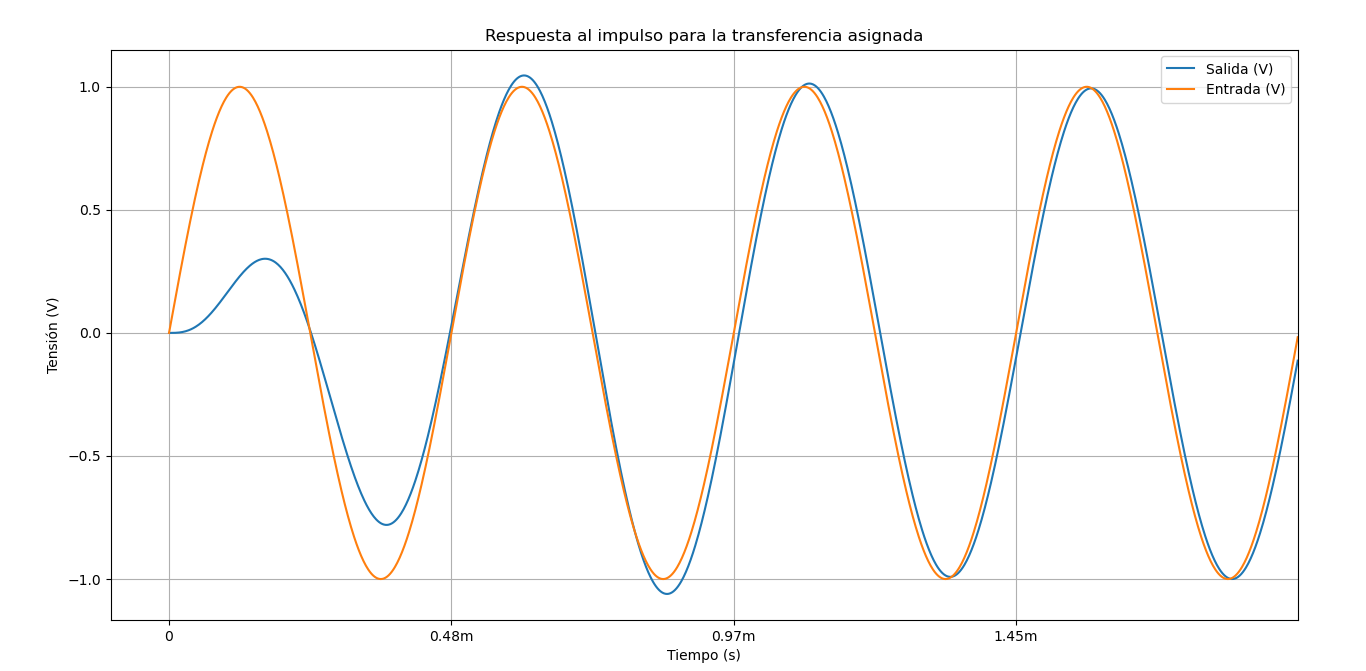
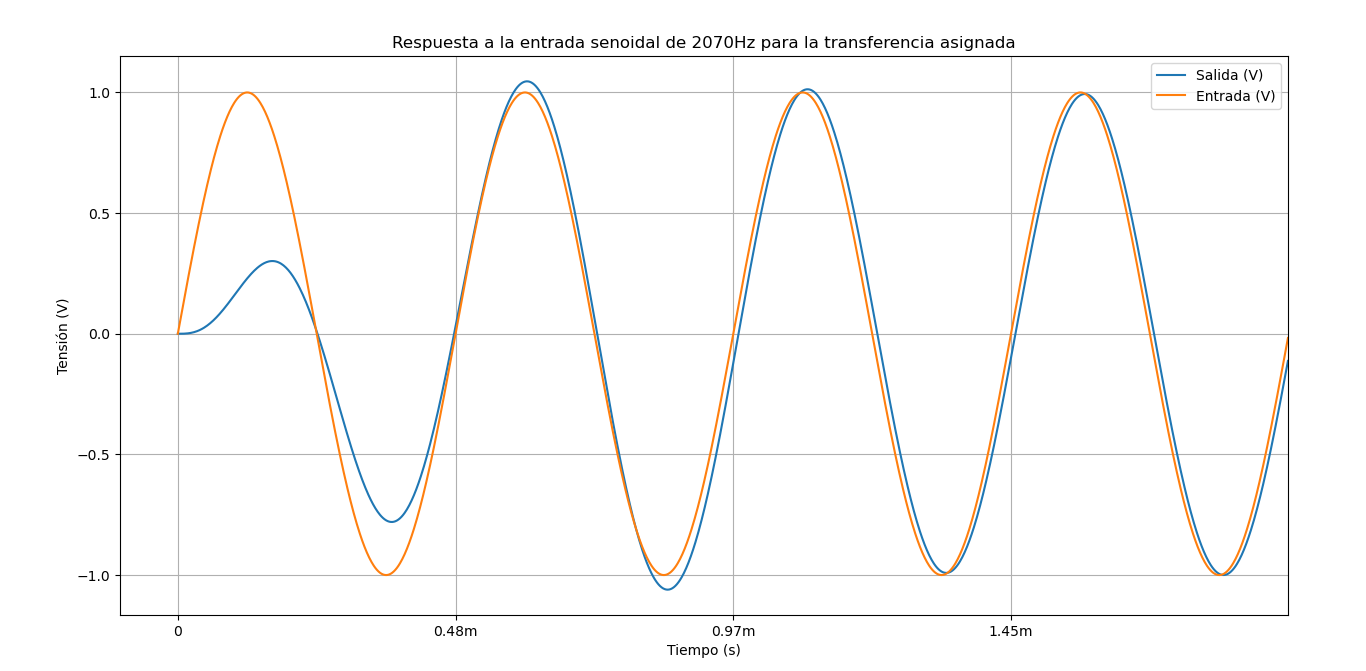
Finish 2d20700Hz graph; Fix 2d207Hz abd 2d2070Hz labels

diff --git a/2d20700Hz.py b/2d20700Hz.py
@@ -15,8 +15,8 @@ s1 = signal.lti(
     [d_4, d_3, d_2, d_1, d_0]
 )
 
-degrees = list(range(0, 360 * 3))
-period = 4.8309e-3
+degrees = list(range(0, 360 * 30))
+period = 4.8309e-5
 sin_v = np.sin(np.array(degrees) * np.pi / 180.)
 sin_t = [deg * period / 360 for deg in degrees]
 
@@ -25,13 +25,19 @@ t, y, x = s1.output(list(sin_v), sin_t)
 plt.plot(t, y, label='Salida (V)')
 plt.plot(sin_t, [sin / 100 for sin in sin_v], label='Entrada (V/100)')
 plt.xticks(
-    [0, period, 2 * period, 3 * period],
-    ['0', '4.8m', '9.7m', '14.5m']
+    [0, period, 3 * period, 5 * period, 7 * period,
+     9 * period, 11 * period, 13 * period, 15 * period,
+     17 * period, 19 * period, 21 * period, 23 * period,
+     25 * period, 27 * period, 29 * period, 31 * period],
+    ['0', '', '', '', '7T=0.34m',
+     '', '', '', '15T=0.72m',
+     '', '', '', '23T=1.11m',
+     '', '', '', '31T=1.50m']
 )
-plt.xlim(-0.0001, t[-1])
+plt.xlim(-0.00001, t[-1])
 plt.xlabel('Tiempo (s)')
 plt.ylabel('Tensión (V)')
-plt.title('Respuesta a la entrada senoidal de 207Hz para la transferencia asignada')
+plt.title('Respuesta a la entrada senoidal de 20700Hz para la transferencia asignada')
 plt.grid()
 plt.legend()
 plt.show()

diff --git a/2d2070Hz.py b/2d2070Hz.py
@@ -31,7 +31,7 @@ plt.xticks(
 plt.xlim(-0.0001, t[-1])
 plt.xlabel('Tiempo (s)')
 plt.ylabel('Tensión (V)')
-plt.title('Respuesta al impulso para la transferencia asignada')
+plt.title('Respuesta a la entrada senoidal de 2070Hz para la transferencia asignada')
 plt.grid()
 plt.legend()
 plt.show()
